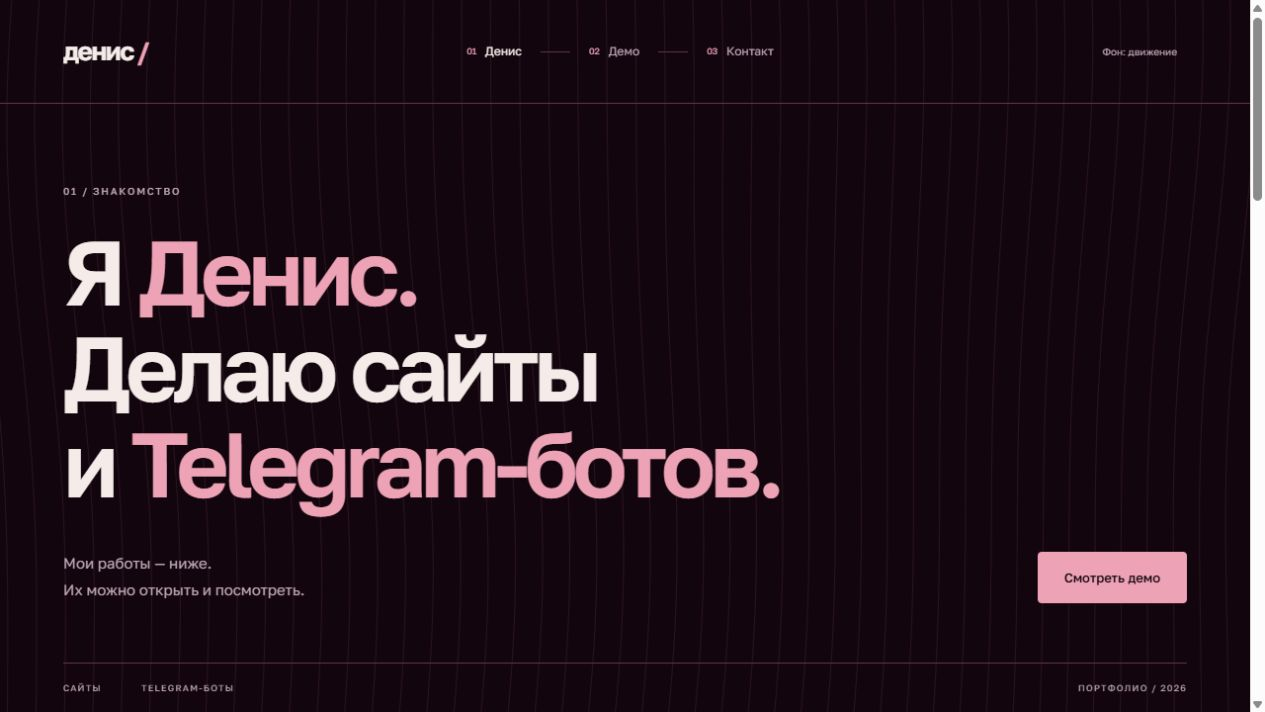
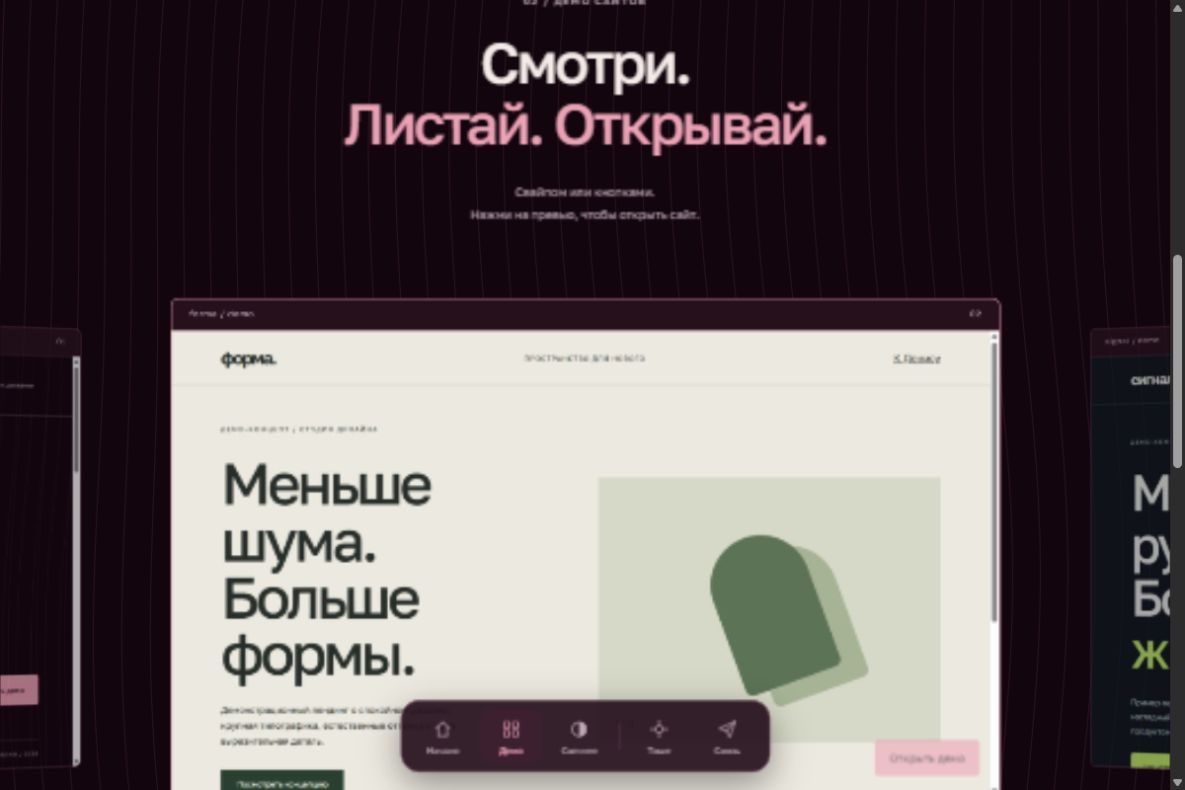
Center portfolio, restore themed dock, and scatter gallery outward/upward

diff --git a/style.css b/style.css
@@ -5,3 +5,17 @@
 @media(max-width:700px){html{scroll-padding-top:25px}.wrap{padding-inline:22px}.header{height:auto;min-height:116px;flex-wrap:wrap;padding-top:18px;padding-bottom:16px;gap:3px 20px}.brand{font-size:23px}.roadmap{order:3;width:100%;justify-content:space-between;gap:8px}.roadmap a{font-size:11px;gap:7px;min-height:35px}.roadmap i{width:25px}#wave-toggle{font-size:9px;margin-left:auto;padding-right:0}.intro{padding-top:43px}.eyebrow{font-size:8px;letter-spacing:1.3px;margin-bottom:20px}.intro h1{font-size:clamp(39px,9vw,61px);line-height:1.1;letter-spacing:-.06em}.intro-bottom{align-items:start;flex-direction:column;gap:24px;margin-top:27px}.intro-bottom p{font-size:13px}.button{font-size:12px;min-height:48px;padding:12px 22px}.intro-rule{margin-top:38px;gap:16px;font-size:7px;letter-spacing:.5px;padding-block:15px}.intro-rule>span:last-child{margin-left:auto}.demos{padding-top:60px}.section-heading{display:block;margin-bottom:20px}h2{font-size:clamp(34px,8vw,49px);letter-spacing:-.05em;line-height:1.12}.gallery-hint{font-size:11px;margin:22px 0 0;max-width:none}.gallery-hint br{display:none}.gallery{--slide-width:84vw}.gallery-track{gap:16px;padding-top:18px;padding-bottom:24px}.preview-bar{height:25px;padding-inline:11px;font-size:7px}.gallery-shot{border-radius:5px}.open-label{display:none}.gallery-info{flex-direction:column;gap:6px;padding-top:8px}.caption{min-height:130px;width:100%}.caption h3{font-size:30px;letter-spacing:-1px}.caption>p:first-child{font-size:8px}.caption>p:last-child{font-size:12px}.gallery-controls{width:100%;justify-content:flex-end;padding-top:0}#gallery-count{margin-right:auto}.gallery-controls button{min-height:44px;padding-inline:20px}.gallery-tabs{gap:18px;margin-top:20px}.gallery-tabs button{gap:7px;font-size:8px}.gallery-tabs button span{font-size:11px}.contact{padding-top:66px}.contact-inner{padding-block:46px 20px}.contact h2{font-size:clamp(49px,12vw,72px)}.telegram{font-size:36px;min-height:60px;margin-top:24px}.contact-note{font-size:12px}.footer{font-size:9px;padding-top:15px}#wave-background{opacity:.23}}
 @media(max-width:360px){.roadmap i{width:13px}.roadmap a{font-size:10px}.gallery-tabs{gap:14px}.gallery-tabs button span{font-size:10px}.intro-rule{font-size:6px;gap:11px}}
 @media(prefers-reduced-motion:reduce){html{scroll-behavior:auto}*,*:before,*:after{transition:none!important;animation:none!important}.slide{transform:none!important;opacity:1}}
+/* Centred composition and the returned navigation dock. */
+html{scroll-padding-bottom:120px}body{padding-bottom:110px}.intro{text-align:center}.intro h1{margin-inline:auto}.intro-bottom{flex-direction:column;align-items:center;gap:26px}.intro-bottom p{text-align:center}.intro-rule{justify-content:center;gap:45px}.intro-rule>span:last-child{margin-left:0}.section-heading{flex-direction:column;align-items:center;text-align:center;gap:25px}.gallery-hint{max-width:none}.gallery-info{flex-direction:column;align-items:center;gap:8px;text-align:center}.caption{max-width:760px;min-height:122px}.caption>p:last-child{min-height:0}.gallery-controls{padding:8px 0 0;justify-content:center}.gallery-tabs{justify-content:center}.contact-inner{text-align:center}.footer{justify-content:center;gap:36px}.gallery-progress{height:2px;width:120px;max-width:50%;margin:28px auto 0;background:var(--line);overflow:hidden}.gallery-progress>span{display:block;transform:scaleX(.3333);transform-origin:left;background:var(--accent);height:100%;transition:transform .4s ease}.gallery-shot{transform:translate3d(var(--scatter-x,0px),0,0) rotate(var(--scatter-angle,0deg));opacity:var(--scatter-opacity,1);transform-origin:center;will-change:transform}.gallery-shot:focus-visible{transform:none!important;opacity:1!important}.gallery-stage{position:relative}.gallery-scene.scatter-enabled .gallery-stage{position:sticky;top:24px}.gallery-scene{overflow:clip}.gallery-track{isolation:isolate}.gallery-shot:hover{border-color:var(--accent)}.brand span{display:inline-block;transition:transform .3s}.brand:hover span{transform:rotate(-18deg)}.roadmap a{position:relative}.roadmap a:after{content:'';position:absolute;bottom:2px;left:0;right:0;height:1px;background:var(--accent);transform:scaleX(0);transition:transform .25s}.roadmap a:hover:after,.roadmap a[aria-current]:after{transform:scaleX(1)}
+.bottom-dock{position:fixed;left:50%;bottom:18px;transform:translateX(-50%);z-index:30;display:flex;gap:5px;align-items:center;padding:8px 10px;background:#28121fee;border:1px solid #754256;border-radius:19px;box-shadow:0 12px 36px #0006}.bottom-dock>a,.bottom-dock>button{display:flex;flex-direction:column;align-items:center;justify-content:center;gap:6px;min-width:64px;min-height:55px;padding:8px;border:0;border-radius:11px;background:none;color:var(--muted);font-size:9px;line-height:1;transition:color .2s,background .2s,transform .2s}.bottom-dock svg{width:21px;height:21px}.bottom-dock i{height:26px;width:1px;background:var(--line);margin-inline:3px}.bottom-dock a:hover,.bottom-dock button:hover{color:var(--ink);background:#49263a;transform:translateY(-4px)}.bottom-dock [aria-current],.bottom-dock [aria-pressed=true]{color:var(--accent);background:#3c2030}.bottom-dock button:disabled{cursor:default}.quiet-mode *,.quiet-mode *:before,.quiet-mode *:after{animation:none!important;transition:none!important}.quiet-mode{scroll-behavior:auto}.quiet-mode .slide,.quiet-mode .gallery-shot{transform:none!important;opacity:1!important}.quiet-mode .bottom-dock a:hover,.quiet-mode .bottom-dock button:hover{transform:none}.quiet-mode .gallery-shot{will-change:auto}
+@media(max-width:700px){.intro-bottom{align-items:center}.intro-rule{gap:20px}.section-heading{gap:12px}.gallery-hint{margin-top:8px}.gallery-controls{width:auto;gap:8px}#gallery-count{margin-right:10px}.caption{min-height:132px}.gallery-info{gap:0}.gallery-tabs{gap:18px}.bottom-dock{max-width:calc(100% - 20px);bottom:12px;padding:6px;gap:2px;border-radius:16px}.bottom-dock>a,.bottom-dock>button{min-width:50px;min-height:52px;padding:6px;font-size:8px}.bottom-dock svg{width:19px;height:19px}.bottom-dock i{margin-inline:1px}.gallery-progress{margin-top:23px;width:90px}.gallery-shot{will-change:auto}}
+@media(max-width:350px){.bottom-dock>a,.bottom-dock>button{min-width:46px;font-size:7px}.intro-rule{gap:13px}}
+@media(prefers-reduced-motion:reduce){.gallery-shot{transform:none!important;opacity:1!important;will-change:auto}.bottom-dock a:hover,.bottom-dock button:hover{transform:none}}
+:root{--dock-bg:#28121fee;--dock-hover:#49263a;--dock-selected:#3c2030;--dock-shadow:#0006}
+:root[data-theme=light]{--bg:#fff8fa;--surface:#f4dce5;--ink:#391022;--muted:#775163;--accent:#70243f;--line:#d9aebf;--wave-color:#b3768e;--dock-bg:#f9e5edee;--dock-hover:#ebc8d7;--dock-selected:#e7bece;--dock-shadow:#6c284320;color-scheme:light}
+:root:not([data-theme=light]){color-scheme:dark}.bottom-dock{background:var(--dock-bg);border-color:var(--line);box-shadow:0 12px 36px var(--dock-shadow)}.bottom-dock a:hover,.bottom-dock button:hover{background:var(--dock-hover)}.bottom-dock [aria-current],.bottom-dock [aria-pressed=true]{background:var(--dock-selected)}
+[data-theme=light] #wave-background{opacity:.36}[data-theme=light] .button{color:var(--bg)}[data-theme=light] .open-label{color:var(--bg)}
+/* Settle into a framed gallery, then send the selected cover upward and neighbours outward. */
+.gallery-shot{transform:translate3d(var(--scatter-x,0px),var(--scatter-y,0px),0) rotate(var(--scatter-angle,0deg)) scale(var(--scatter-scale,1))}
+@media(min-width:701px){.gallery{--slide-width:min(66vw,860px)}}
+@media(min-width:701px) and (max-height:850px){.gallery{--slide-width:min(60vw,740px)}.gallery-shot img{max-height:calc(100svh - 410px);min-height:150px;object-fit:contain}.caption{min-height:105px}.gallery-track{padding-top:16px;padding-bottom:16px}.gallery-progress{margin-top:14px}.gallery-tabs{margin-top:5px}}

diff --git a/index.html b/index.html
@@ -2,12 +2,12 @@
 <html lang="ru">
 <head>
   <meta charset="utf-8"><meta name="viewport" content="width=device-width,initial-scale=1">
-  <meta name="theme-color" content="#13050e">
+  <meta name="theme-color" content="#13050e"><script>try{if(localStorage.getItem("denis-theme")==="light")document.documentElement.dataset.theme="light"}catch{}</script>
   <meta name="description" content="Денис — сайты и Telegram-боты. Посмотрите демо в галерее и напишите в Telegram: @Nokom1.">
   <title>Денис — сайты и Telegram-боты</title>
   <link rel="icon" href="favicon.svg" type="image/svg+xml">
-  <link rel="stylesheet" href="style.css">
-  <script src="gallery.js" defer></script><script src="waves.js" defer></script>
+  <link rel="stylesheet" href="style.css?v=centered-scatter">
+  <script src="gallery.js?v=centered-scatter" defer></script><script src="waves.js?v=centered-scatter" defer></script><script src="scatter.js" defer></script><script src="dock.js" defer></script>
 </head>
 <body id="top">
   <canvas id="wave-background" aria-hidden="true"></canvas>
@@ -26,7 +26,7 @@
     </section>
     <section id="demos" class="demos" aria-labelledby="demos-title">
       <div class="section-heading wrap"><div><p class="eyebrow">02 / ДЕМО САЙТОВ</p><h2 id="demos-title">Смотри.<br><span>Листай. Открывай.</span></h2></div><p class="gallery-hint">Свайпом или кнопками.<br>Нажми на превью, чтобы открыть сайт.</p></div>
-      <div class="gallery" aria-roledescription="карусель">
+      <div class="gallery-scene"><div class="gallery-stage"><div class="gallery" aria-roledescription="карусель">
         <div class="gallery-track" tabindex="0" role="region" aria-label="Галерея демо-сайтов. Используйте свайп или стрелки клавиатуры">
           <article class="slide" data-title="Личное портфолио" data-description="Этот сайт: представление, демо и контакт." data-kind="ЛИЧНЫЙ ПРОЕКТ" aria-roledescription="слайд" aria-label="1 из 3. Личное портфолио">
             <a class="gallery-shot" href="https://nokom1.github.io/portfolio/" target="_blank" rel="noopener noreferrer" aria-label="Открыть личное портфолио в новой вкладке"><div class="preview-bar" aria-hidden="true"><span>denis / portfolio</span><span>01</span></div><img src="portfolio-preview.jpg" width="1265" height="712" alt="Главная страница портфолио Дениса" fetchpriority="high"><span class="open-label" aria-hidden="true">Открыть сайт</span></a>
@@ -38,12 +38,12 @@
             <a class="gallery-shot" href="demo-signal.html" target="_blank" rel="noopener noreferrer" aria-label="Открыть демо-сайт Сигнал в новой вкладке"><div class="preview-bar" aria-hidden="true"><span>signal / demo</span><span>03</span></div><img src="signal-preview.jpg" width="1265" height="712" alt="Главная страница демо-сайта Сигнал" loading="lazy"><span class="open-label" aria-hidden="true">Открыть демо</span></a>
           </article>
         </div>
-        <div class="gallery-info wrap"><div class="caption" aria-live="polite" aria-atomic="true"><p id="demo-kind">ЛИЧНЫЙ ПРОЕКТ</p><h3 id="demo-title">Личное портфолио</h3><p id="demo-description">Этот сайт: представление, демо и контакт.</p></div><div class="gallery-controls"><span id="gallery-count" aria-hidden="true">01 / 03</span><button type="button" id="gallery-prev" aria-label="Предыдущее демо">Назад</button><button type="button" id="gallery-next" aria-label="Следующее демо">Дальше</button></div></div>
-        <nav class="gallery-tabs wrap" aria-label="Выбрать демо"><button type="button" data-slide="0" aria-pressed="true">01 <span>Портфолио</span></button><button type="button" data-slide="1" aria-pressed="false">02 <span>Форма</span></button><button type="button" data-slide="2" aria-pressed="false">03 <span>Сигнал</span></button></nav>
-      </div>
+        <div class="gallery-info wrap"><div class="caption" aria-live="polite" aria-atomic="true"><p id="demo-kind">ЛИЧНЫЙ ПРОЕКТ</p><h3 id="demo-title">Личное портфолио</h3><p id="demo-description">Этот сайт: представление, демо и контакт.</p></div><div class="gallery-controls"><span id="gallery-count" aria-hidden="true">01 / 03</span><button type="button" id="gallery-prev" aria-label="Назад: предыдущее демо">Назад</button><button type="button" id="gallery-next" aria-label="Дальше: следующее демо">Дальше</button></div></div>
+        <div class="gallery-progress" aria-hidden="true"><span></span></div><nav class="gallery-tabs wrap" aria-label="Выбрать демо"><button type="button" data-slide="0" aria-pressed="true">01 <span>Портфолио</span></button><button type="button" data-slide="1" aria-pressed="false">02 <span>Форма</span></button><button type="button" data-slide="2" aria-pressed="false">03 <span>Сигнал</span></button></nav>
+      </div></div></div>
     </section>
     <section id="contact" class="contact wrap" aria-labelledby="contact-title"><div class="contact-inner"><p class="eyebrow">03 / КОНТАКТ</p><h2 id="contact-title">Нужен сайт<br>или <span>бот?</span></h2><a class="telegram" href="https://t.me/Nokom1" target="_blank" rel="noopener noreferrer">@Nokom1</a><p class="contact-note">Напиши в Telegram. Обсудим задачу.</p></div></section>
   </main>
   <footer class="footer wrap"><span>Денис / 2026</span><a href="#top">Наверх</a></footer>
-</body>
+<nav class="bottom-dock" aria-label="Быстрые действия"><a href="#about" data-section="about"><svg viewBox="0 0 24 24" fill="none" stroke="currentColor" stroke-width="1.5" aria-hidden="true"><path d="m4 11 8-7 8 7M7 9v11h10V9"/></svg><span>Начало</span></a><a href="#demos" data-section="demos"><svg viewBox="0 0 24 24" fill="none" stroke="currentColor" stroke-width="1.5" aria-hidden="true"><rect x="4" y="4" width="6" height="6" rx="1"/><rect x="14" y="4" width="6" height="6" rx="1"/><rect x="4" y="14" width="6" height="6" rx="1"/><rect x="14" y="14" width="6" height="6" rx="1"/></svg><span>Демо</span></a><button type="button" id="theme-toggle" aria-pressed="false"><svg viewBox="0 0 24 24" fill="none" stroke="currentColor" stroke-width="1.5" aria-hidden="true"><circle cx="12" cy="12" r="8"/><path d="M12 4a8 8 0 0 1 0 16Z" fill="currentColor" stroke="none"/></svg><span>Светлее</span></button><i aria-hidden="true"></i><button type="button" id="quiet-toggle" aria-pressed="false"><svg viewBox="0 0 24 24" fill="none" stroke="currentColor" stroke-width="1.5" aria-hidden="true"><path d="M12 2v4M12 18v4M2 12h4M18 12h4"/><circle cx="12" cy="12" r="4"/></svg><span>Тише</span></button><a href="#contact" data-section="contact"><svg viewBox="0 0 24 24" fill="none" stroke="currentColor" stroke-width="1.5" aria-hidden="true"><path d="m3 11 18-8-6 18-4-7-8-3Zm8 3L21 3"/></svg><span>Связь</span></a></nav></body>
 </html>

diff --git a/scatter.js b/scatter.js
@@ -1,0 +1,56 @@
+/* Scroll-only dispersal on inner covers; native horizontal gallery geometry stays unchanged. */
+(() => {
+  const root=document.documentElement;
+  const scene=document.querySelector('.gallery-scene');
+  const stage=document.querySelector('.gallery-stage');
+  const gallery=document.querySelector('.gallery');
+  const track=document.querySelector('.gallery-track');
+  const covers=[...document.querySelectorAll('.slide')].map(slide=>slide.querySelector('.gallery-shot')).filter(Boolean);
+  if(!scene||!stage||!gallery||!track||!covers.length)return;
+  const reduce=matchMedia('(prefers-reduced-motion: reduce)');
+  let frame=0,pinned=false,extra=0,inspecting=true,lastY=scrollY;
+  const inactive=()=>reduce.matches||root.classList.contains('quiet-mode');
+  const clamp=value=>Math.min(1,Math.max(0,value));
+  function clear(){covers.forEach(cover=>{cover.style.setProperty('--scatter-x','0px');cover.style.setProperty('--scatter-y','0px');cover.style.setProperty('--scatter-scale','1');cover.style.setProperty('--scatter-angle','0deg');cover.style.setProperty('--scatter-opacity','1')})}
+  function render(){
+    frame=0;
+    if(inactive()||inspecting){clear();return;}
+    const raw=pinned?(24-scene.getBoundingClientRect().top)/Math.max(1,extra):-track.getBoundingClientRect().top/Math.max(1,track.offsetHeight);
+    const settle=clamp(raw/.3);
+    const progress=clamp(pinned?(raw-.3)/.7:raw);
+    const eased=progress*progress*(3-2*progress);
+    const selected=Number(gallery.querySelector('.gallery-tabs [aria-pressed="true"]')?.dataset.slide);
+    const current=Number.isInteger(selected)&&selected>=0&&selected<covers.length?selected:0;
+    covers.forEach((cover,index)=>{
+      const central=index===current;
+      const direction=index<current?-1:1;
+      const travel=pinned?Math.min(innerWidth*.62,760):Math.min(innerWidth*.32,280);
+      cover.style.setProperty('--scatter-x',central?'0px':`${(direction*eased*travel).toFixed(2)}px`);
+      cover.style.setProperty('--scatter-y',central?`${(-eased*(track.offsetHeight+80)).toFixed(2)}px`:'0px');
+      cover.style.setProperty('--scatter-scale',String(1-settle*.06));
+      cover.style.setProperty('--scatter-angle',central?'0deg':`${(direction*eased*(pinned?9:4)).toFixed(2)}deg`);
+      cover.style.setProperty('--scatter-opacity',String(1-eased*.12));
+    });
+  }
+  function schedule(){if(!frame)frame=requestAnimationFrame(render)}
+  function configure(){
+    cancelAnimationFrame(frame);frame=0;
+    inspecting=true;
+    pinned=!inactive()&&stage.offsetHeight<innerHeight-120;
+    extra=pinned?innerHeight*.8:0;
+    scene.classList.toggle('scatter-enabled',pinned);
+    scene.style.height=pinned?`${stage.offsetHeight+extra}px`:'';
+    clear();
+  }
+  function inspect(){inspecting=true;clear()}
+  gallery.addEventListener('pointerdown',inspect,{passive:true});
+  gallery.addEventListener('focusin',inspect);
+  gallery.addEventListener('keydown',inspect);
+  gallery.addEventListener('click',event=>{if(event.target.closest('button'))inspect()});
+  track.addEventListener('scroll',inspect,{passive:true});
+  addEventListener('scroll',()=>{if(scrollY!==lastY){lastY=scrollY;inspecting=false;}schedule()},{passive:true});
+  addEventListener('resize',configure,{passive:true});
+  document.addEventListener('quietchange',configure);
+  reduce.addEventListener('change',configure);
+  configure();
+})();

diff --git a/dock.js b/dock.js
@@ -1,0 +1,23 @@
+(() => {
+  const root=document.documentElement;
+  const toggle=document.querySelector('#quiet-toggle');
+  const waveToggle=document.querySelector('#wave-toggle');
+  const reduce=matchMedia('(prefers-reduced-motion: reduce)');
+  let quiet=false,previousPause=false;
+  function sync(){
+    const stopped=reduce.matches||quiet;
+    root.classList.toggle('quiet-mode',stopped);
+    if(toggle){const text=reduce.matches?'Тихо':quiet?'Живее':'Тише';toggle.querySelector('span').textContent=text;toggle.setAttribute('aria-label',`${text}: режим движения`);toggle.setAttribute('aria-pressed',String(stopped));toggle.disabled=reduce.matches;toggle.title=reduce.matches?'Уменьшение движения включено на устройстве':'';}
+    document.dispatchEvent(new CustomEvent('wavepause',{detail:stopped||previousPause}));
+    if(waveToggle)waveToggle.disabled=stopped;
+    document.dispatchEvent(new CustomEvent('quietchange',{detail:stopped}));
+  }
+  toggle?.addEventListener('click',()=>{if(reduce.matches)return;if(!quiet)previousPause=waveToggle?.getAttribute('aria-pressed')==='true';quiet=!quiet;sync()});
+  reduce.addEventListener('change',sync);sync();
+  const theme=document.querySelector('#theme-toggle');
+  function themeState(){const light=root.dataset.theme==='light';if(theme){theme.querySelector('span').textContent=light?'Темнее':'Светлее';theme.setAttribute('aria-label',light?'Темнее: включить вишнёвую тему':'Светлее: включить светлую тему');theme.setAttribute('aria-pressed',String(light));}document.querySelector('meta[name="theme-color"]')?.setAttribute('content',light?'#fff8fa':'#13050e');document.dispatchEvent(new Event('themechange'));}
+  theme?.addEventListener('click',()=>{const light=root.dataset.theme!=='light';root.dataset.theme=light?'light':'dark';try{localStorage.setItem('denis-theme',light?'light':'dark')}catch{}themeState()});themeState();
+  const links=[...document.querySelectorAll('.bottom-dock [data-section]')];let frame=0;
+  function mark(){frame=0;let active='about';links.forEach(link=>{if(document.getElementById(link.dataset.section).getBoundingClientRect().top<=innerHeight*.45)active=link.dataset.section});links.forEach(link=>{if(link.dataset.section===active)link.setAttribute('aria-current','location');else link.removeAttribute('aria-current')})}
+  addEventListener('scroll',()=>{if(!frame)frame=requestAnimationFrame(mark)},{passive:true});mark();
+})();

diff --git a/waves.js b/waves.js
@@ -6,6 +6,7 @@
   if (!canvas || !ctx) return;
   const toggle = document.getElementById('wave-toggle');
   const reduce = matchMedia('(prefers-reduced-motion: reduce)');
+  const quiet = () => document.documentElement.classList.contains('quiet-mode');
   const pointer = {x: -1000, y: -1000, targetX: -1000, targetY: -1000};
   let width = 1, height = 1, phase = 0, lastTime = 0, frame = 0, paused = false;
   let waveColor = '#72394e', background = '#13050e';
@@ -37,7 +38,7 @@
       ctx.stroke();
     }
   }
-  function running() { return !document.hidden && !reduce.matches && !paused; }
+  function running() { return !document.hidden && !reduce.matches && !paused && !quiet(); }
   function tick(time) {
     frame = 0;
     if (!running()) return;
@@ -53,9 +54,9 @@
   function reconcile() {
     cancelAnimationFrame(frame);
     frame = 0;
-    const stopped = paused || reduce.matches;
+    const stopped = paused || reduce.matches || quiet();
     if (toggle) {
-      toggle.disabled = reduce.matches;
+      toggle.disabled = reduce.matches || quiet();
       toggle.textContent = stopped ? 'Фон: пауза' : 'Фон: движение';
       toggle.setAttribute('aria-pressed', String(stopped));
       toggle.setAttribute('aria-label', toggle.textContent);
@@ -88,12 +89,14 @@
     if (!event.relatedTarget) pointer.targetX = pointer.targetY = -1000;
   }, {passive: true});
   document.addEventListener('visibilitychange', reconcile);
+  document.addEventListener('themechange', resize);
+  document.addEventListener('quietchange', reconcile);
   document.addEventListener('wavepause', event => {
     paused = event.detail === true;
     reconcile();
   });
   toggle?.addEventListener('click', () => {
-    if (reduce.matches) return;
+    if (reduce.matches || quiet()) return;
     paused = !paused;
     reconcile();
   });

diff --git a/gallery.js b/gallery.js
@@ -6,6 +6,7 @@
   const tabs=[...document.querySelectorAll('[data-slide]')];
   const prev=document.querySelector('#gallery-prev'),next=document.querySelector('#gallery-next');
   const reduce=matchMedia('(prefers-reduced-motion: reduce)');
+  const inactive=()=>reduce.matches || document.documentElement.classList.contains("quiet-mode");
   let current=-1,frame=0;
   function update(){
     frame=0;
@@ -22,6 +23,7 @@
     });
     if(current===index)return;
     current=index;
+    const progress=document.querySelector(".gallery-progress span");if(progress)progress.style.transform=`scaleX(${(index+1)/slides.length})`;
     const data=slides[index].dataset;
     document.querySelector('#demo-title').textContent=data.title;
     document.querySelector('#demo-description').textContent=data.description;
@@ -34,7 +36,7 @@
   function go(index){
     index=Math.max(0,Math.min(slides.length-1,index));
     const slide=slides[index];
-    track.scrollTo({left:slide.offsetLeft-(track.clientWidth-slide.offsetWidth)/2,behavior:reduce.matches?'auto':'smooth'});
+    track.scrollTo({left:slide.offsetLeft-(track.clientWidth-slide.offsetWidth)/2,behavior:inactive()?'auto':'smooth'});
   }
   prev.addEventListener('click',()=>go(current-1));next.addEventListener('click',()=>go(current+1));
   tabs.forEach((tab,index)=>tab.addEventListener('click',()=>go(index)));
@@ -47,6 +49,7 @@
   });
   addEventListener('resize',()=>{go(Math.max(0,current));schedule()},{passive:true});
   reduce.addEventListener('change',schedule);
+  document.addEventListener('gallerynext',()=>go((current+1)%slides.length));
   update();
   const nav=[...document.querySelectorAll('.roadmap a')];
   let navFrame=0;

diff --git a/README.md b/README.md
@@ -5,3 +5,9 @@ https://nokom1.github.io/portfolio/
 Структура: представление → галерея демо → Telegram-контакт. Единый шрифт Golos Text. Галерея перелистывается свайпом, кнопками или клавишами. Фон с волнистыми линиями можно остановить; системный reduced-motion имеет приоритет. Демо подписаны, готовый Telegram-бот не заявляется.
 
 Статический HTML/CSS/JS без сборки. Для Pages: main, /(root), .nojekyll. Галерея и фон адаптированы по предоставленным пользователем TiltedGridHero и Waves.
+
+## Текущая версия
+
+Центрированная композиция; нижняя панель быстрых переходов. В центре панели — переключение между вишнёвой и светлой темой (белый/розовый/вишнёвые акценты). Выбор хранится локально. Галерея листается нативно; при дальнейшем вертикальном скролле обложки расходятся, при взаимодействии возвращаются для просмотра. Тихий режим и системный reduced-motion отключают движение. Активные модули: gallery.js, scatter.js, dock.js, waves.js.
+
+Анимация галереи: сначала рамка и пауза для просмотра, затем боковые карточки уходят в стороны, выбранная — вверх. Ручное листание сбрасывает разлёт.
